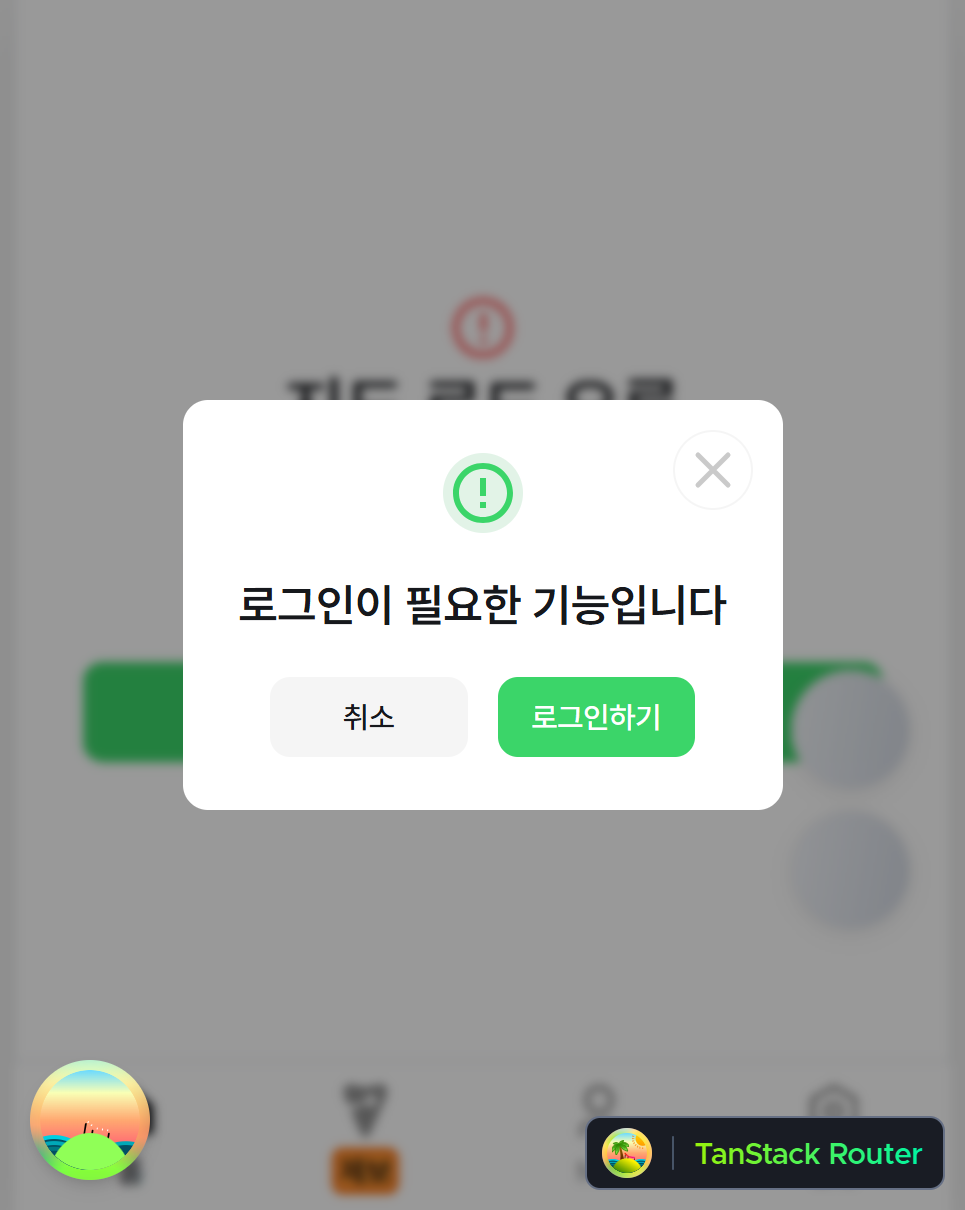
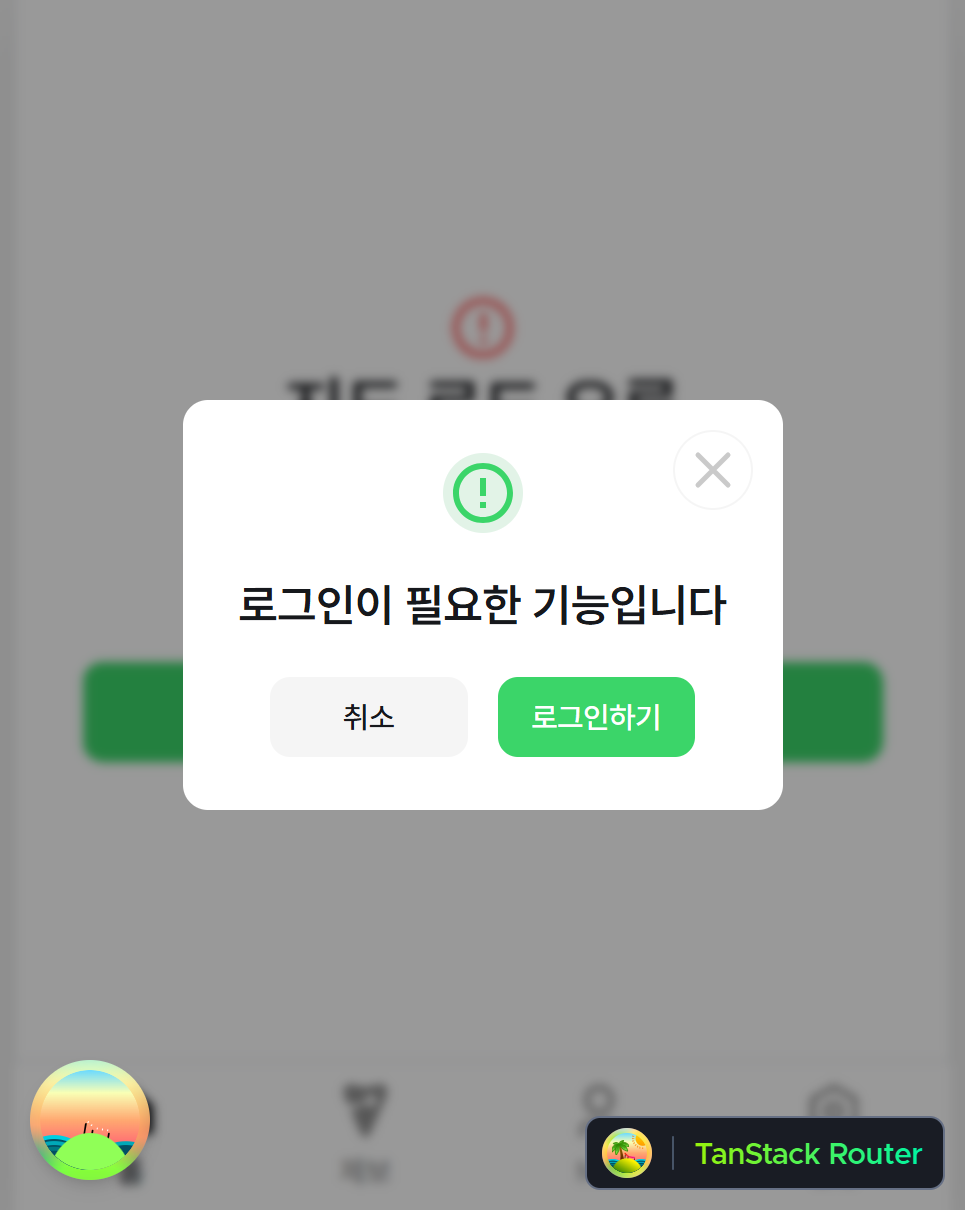
docs: PR 캡처 도구 제외 및 로그인 팝업 스크린샷 갱신
PR 범위에서 Storybook alias, 캡처 스크립트, LoginPageSkeleton 스토리를 제거하고 .local/ 안내를 추가한다. 제보 탭 로그인 팝업(03) 스크린샷을 재촬영한다.

Changed region(s): [[0.8083, 0.5504, 0.9326, 0.6421], [0.342, 0.9174, 0.4352, 1.0]]

diff --git a/apps/storybook/.storybook/main.ts b/apps/storybook/.storybook/main.ts
@@ -1,10 +1,5 @@
 import type { StorybookConfig } from "@storybook/react-vite";
 import { vanillaExtractPlugin } from "@vanilla-extract/vite-plugin";
-import path from "node:path";
-import { fileURLToPath } from "node:url";
-
-const storybookDir = path.dirname(fileURLToPath(import.meta.url));
-const webSrc = path.join(storybookDir, "../../web/src");
 
 const config: StorybookConfig = {
   stories: [
@@ -18,13 +13,6 @@ const config: StorybookConfig = {
   },
   viteFinal: async (config) => {
     config.plugins = [...(config.plugins ?? []), vanillaExtractPlugin()];
-    config.resolve = {
-      ...config.resolve,
-      alias: {
-        ...(typeof config.resolve?.alias === "object" ? config.resolve.alias : {}),
-        "#": webSrc,
-      },
-    };
     return config;
   },
 };

diff --git a/docs/pr/fix-minor-bugs/README.md b/docs/pr/fix-minor-bugs/README.md
@@ -8,4 +8,4 @@
 
 PR 본문에는 `?raw=1` GitHub URL로 첨부합니다 (상대 경로는 PR에서 깨질 수 있음).
 
-캡처: `05` — Storybook `LoginPageSkeleton/Mobile Viewport` (`npx playwright install chromium` 후 `node capture-login-skeleton.mjs`, Storybook `:6008`). 나머지 — `pnpm exec vite dev --port 3010`, `node capture-screenshots.mjs`.
+재촬영 스크립트는 Git에 올리지 않고 `.local/`에만 둡니다 (자세한 사용법은 `.local/README.md`).